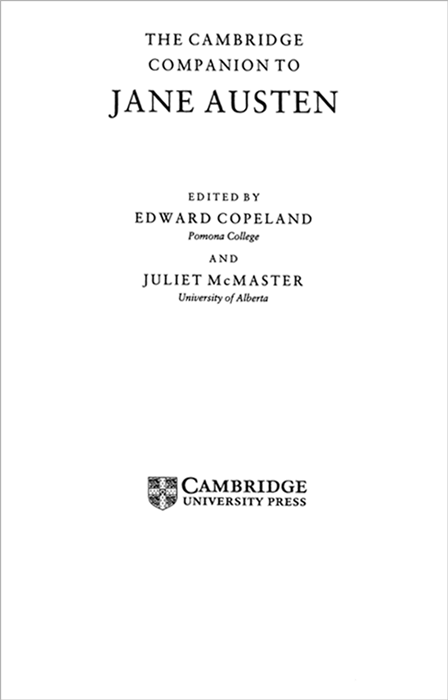
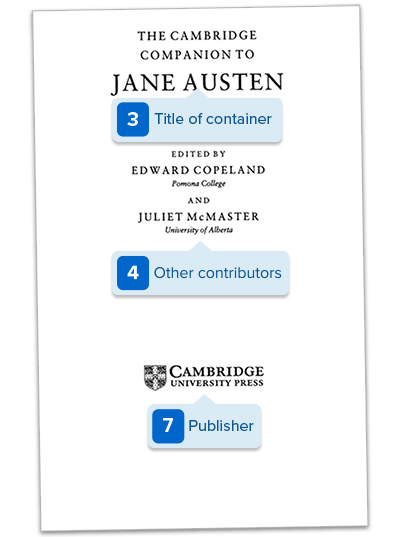
Updated citation images.

diff --git a/src/scss/pages/_citation-builder.scss b/src/scss/pages/_citation-builder.scss
@@ -4,6 +4,35 @@ $citation-background-color: #bdf;
 $citation-border-color: #14b;
 $citation-link-color: #36f;
 
+.mla-style-at-a-glance {
+  .content {
+    background-color: $background-light-grey;
+    background-image: url($citation-background-right);
+    background-position: 120% top;
+    background-repeat: no-repeat;
+    background-size: 651px 389px;
+    position: relative;
+
+    &:after {
+      background-image: url($citation-background-left);
+      background-position: 0 top;
+      background-repeat: no-repeat;
+      background-size: 651px 389px;
+      bottom: 0;
+      content: '';
+      left: -10%;
+      height: 389px;
+      position: absolute;
+      width: 651px;
+      z-index: 1;
+    }
+  }
+
+  .block-main {
+    z-index: 10;
+  }
+}
+
 #citation-thread {
   margin: 2em 0 1em 0;
   text-align: center;
@@ -42,6 +71,7 @@ fieldset {
 
 .citation {
 
+  background-color: $white;
   border: solid 1px $citation-border-color;
   border-radius: 10px;
   padding: 8px;

diff --git a/src/scss/utils/_images.scss b/src/scss/utils/_images.scss
@@ -19,6 +19,8 @@ $tile-placeholder-teaching: '../images/tile-placeholder-teaching.jpg';
 $tile-placeholder-works-cited: '../images/tile-placeholder-works-cited.jpg';
 
 $citation-image-icon: '../images/citation-image-icon.png';
+$citation-background-left: '../images/citation-background-left.png';
+$citation-background-right: '../images/citation-background-right.png';
 
 $author-photo-carr: '../images/author-photo-carr.jpg';
 $author-photo-foasberg: '../images/author-photo-foasberg.jpg';

diff --git a/src/scss/utils/_colors.scss b/src/scss/utils/_colors.scss
@@ -7,7 +7,7 @@ $palette-orange: #c6401d;
 $palette-slate: #203232;
 $palette-pale-yellow: #fff6e2;
 $palette-dark: #222;
-$palette-hilite: #ff6;
+$palette-hilite: #bdf;
 
 // Page colors
 $home-background-color: #efefef;
